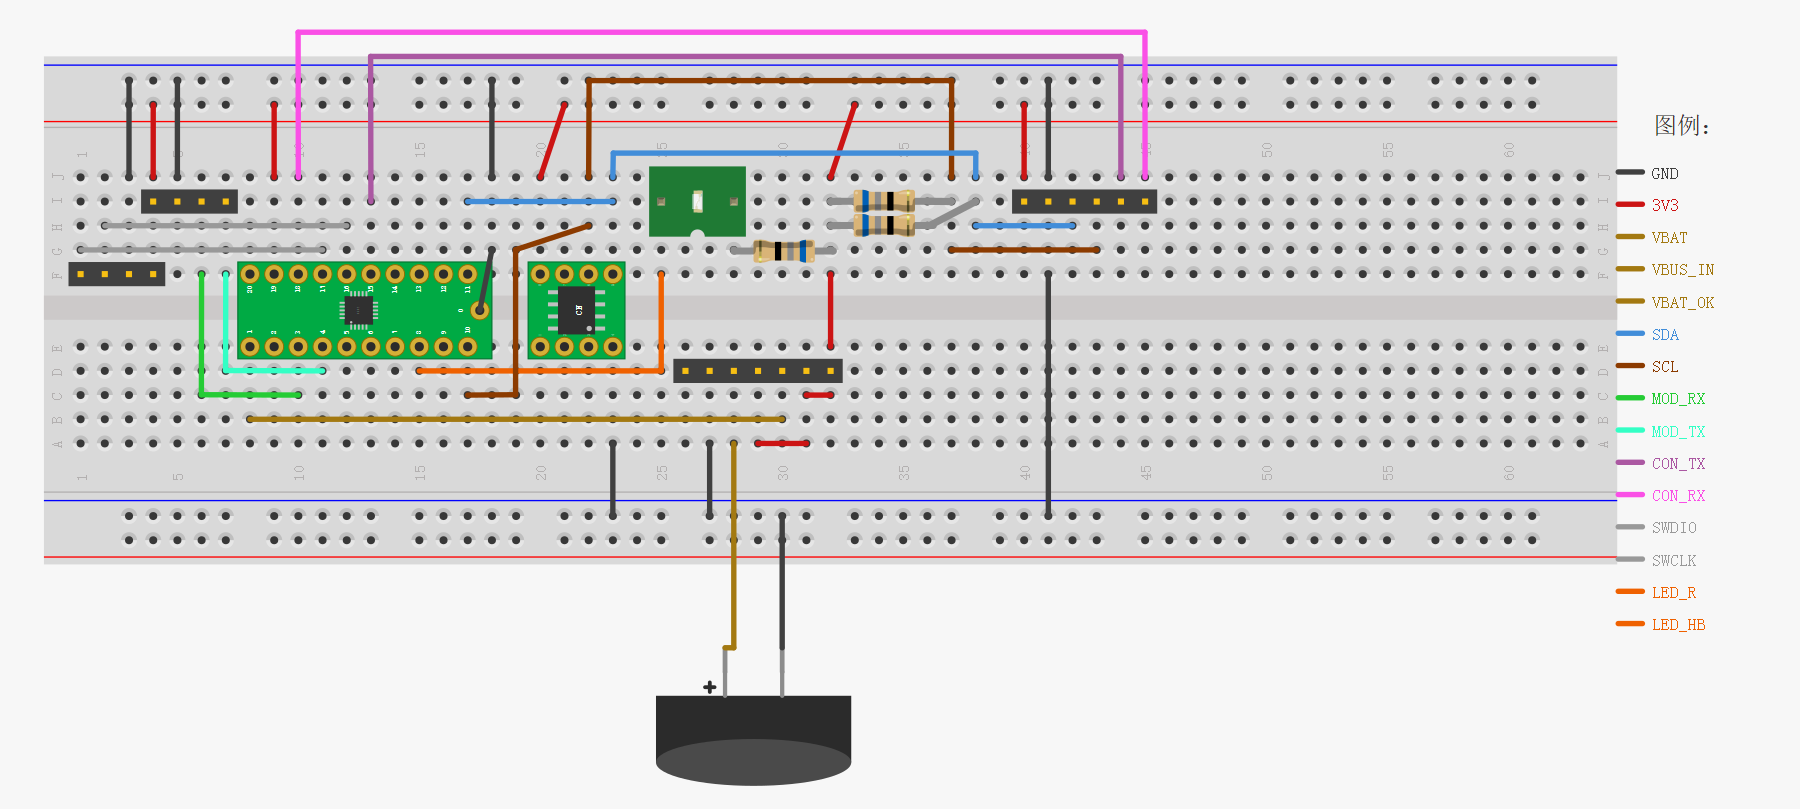
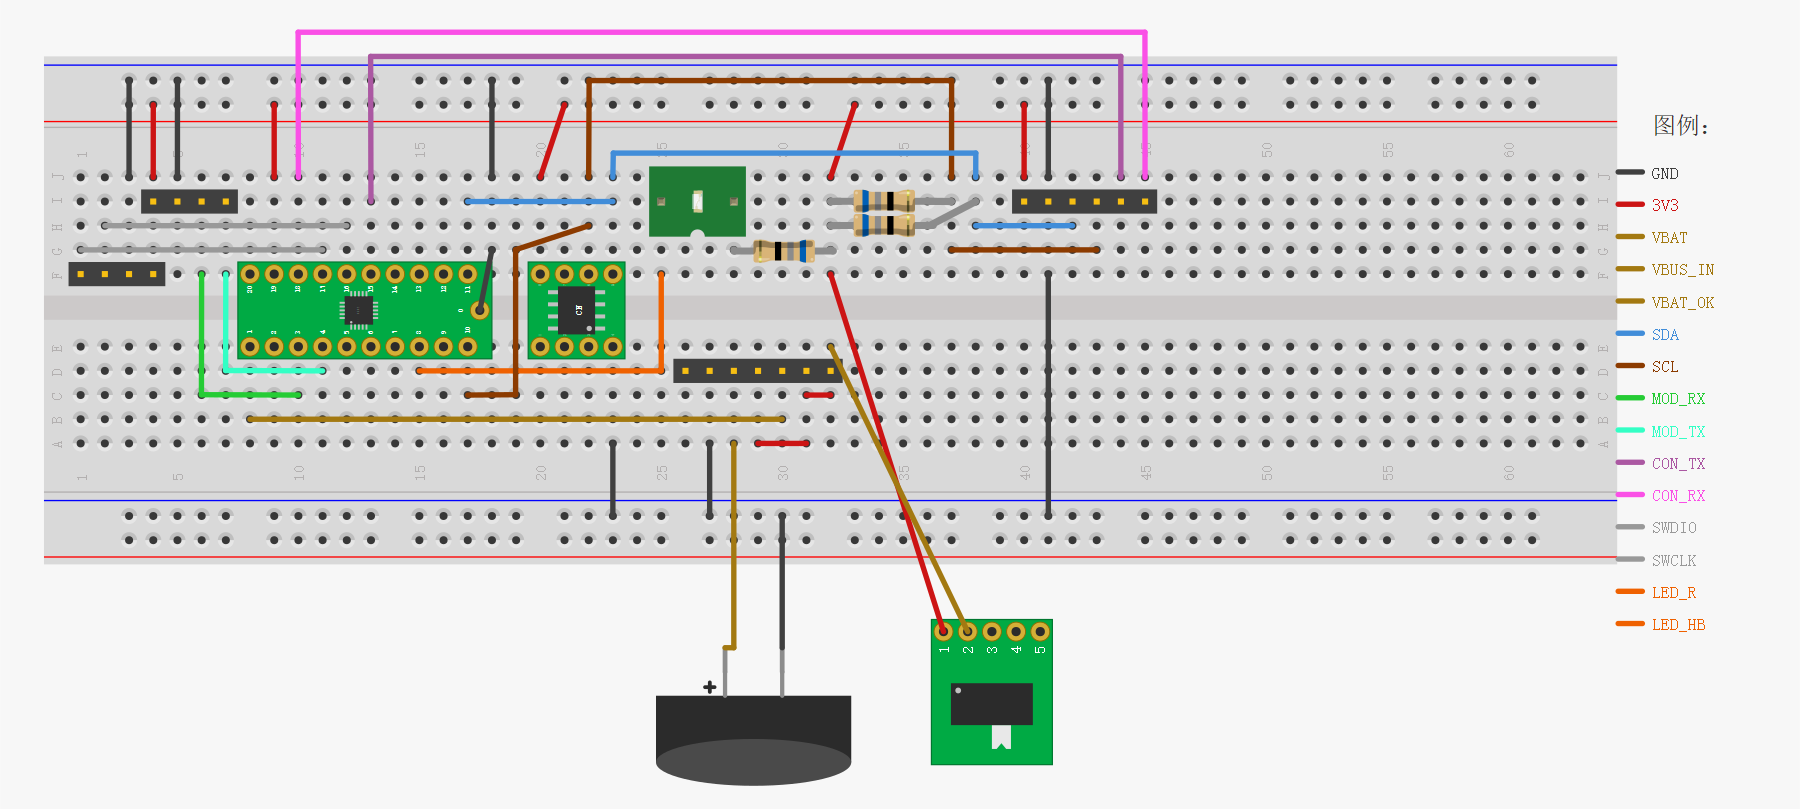
面包板：补上 SW1（SK-12D02VG3），3V3 与 3V3_IN 由此分开
起因：`carrier-breadboard.fzz` 早于电源开关，图里 3V3 与 3V3_IN 被一根桥接线
直接并在一起（`bb_probe` 报「分量里有 3V3 与 3V3_IN 的脚」= 短接），与网表
`carrier_nets.py`（16 张网、SW1 串在中间）不一致。

改动（只碰这一个草图）：
- 删掉桥接线 `Wire90000078`（modelIndex 90000277，pin32F ↔ pin32E）
- 加 `SW1` 实例：与 `BT1` 同样处理成**浮件**（板子下方右侧、不压孔），
  只用 1/2 两脚；3/4/5 是备用极，悬空
- 加两根线：`SW1.1 → pin32F`（3V3 那侧，红 `#cc1414`）、
  `SW1.2 → pin32E`（3V3_IN 那侧，赭 `#a37911`）
- 顺带把板子那两只孔里指向已删桥接线的回指，改指到新的两根线

判据（都不靠眼睛）：
- `bb_probe --nets=carrier_nets.py` ⇒ 15/15 张网连通成一片、EXPECT 量到 48/48、
  **短接 0**、悬空目标 0（改前：短接 1、3V3 8/9、3V3_IN 3/4）
- `file_sanity.py` ⇒ 非标准色 0 根
- `render_bb.py` ⇒ 每个声明了孔的脚 Δ ≤ 0.02 单位（SW1 浮件按"接导线不插孔"处理）
- `tools/run_checks.py` ⇒ 20 道闸门全过

新增 `docs/carrier-breadboard-bringup.md`（图文）：器件表、三处要点（浮件 /
3V3 与 3V3_IN 由 SW1 隔开 / 线色=网）、上电前 7 条万用表判据、5 步分级上电、
载板档烧录与可填的实测记录表；README 的 docs 表加一行。

如实：全部判据都还没在实物上量过（§8 记录表待填）；`bb_precheck.py`
（布线前的摆位闸门）会报 SW1 的 3/4/5 脚"既没插孔也没接线"——设计如此，
本图的网表闸门是 `bb_probe`。

Changed region(s): [[0.4978, 0.618, 0.5911, 0.958], [0.4356, 0.3399, 0.4978, 0.5871], [0.9022, 0.1236, 0.9644, 0.1854]]

diff --git a/docs/carrier-breadboard-bringup.md b/docs/carrier-breadboard-bringup.md
@@ -1,0 +1,170 @@
+# Carrier 面包板验证（bring-up）
+
+按 `hardware/carrier/carrier-breadboard.fzz` 把载板电路**先在面包板上搭出来**跑通，
+再去打板。这是 AGENTS §1 那条**开发次序**里的第 ② 步：
+
+> **网表 → 面包板 → 原理图 → PCB**
+> ① 网表 = `hardware/carrier/carrier_nets.py`（16 张网）
+> **② 面包板 = 本图 ＋ 在实物上跑通（本文）**
+> ③ 原理图 = `carrier-schematic.fzz`（已定稿 ✓）
+> ④ PCB = `carrier-pcb.fzz`（已布线 ✓，等打板）
+
+[![载板面包板接线图](../hardware/carrier/carrier-breadboard.png)](../hardware/carrier/carrier-breadboard.svg)
+
+> 图 = `render_bb.py` 从 `carrier-breadboard.fzz` 直接渲出来的（不是手绘）。右边色条是网名 ↔ 线色；
+> `U1`/`U2` 是绿色转接板，`BT1`/`SW1` 是**浮在板子下方**的两只（见 §3），其余件都插在孔上。
+
+---
+
+## 1. 这张图与网表的关系（可机器核，不靠眼）
+
+| 判据 | 命令 | 现状 |
+|---|---|---|
+| 网上有的脚 ↔ 图上的脚 | `bb_probe.py carrier-breadboard.fzz --nets=carrier_nets.py` | ✓ **15/15 张网连通成一片**、`EXPECT` **量到 48/48 只**、**短接 0** |
+| 导线颜色是否合法 | `file_sanity.py carrier-breadboard.fzz` | ✓ 非标准色 **0** 根 |
+| 脚位是否落在孔上 | `render_bb.py`（渲图时自检） | ✓ 每个声明了孔的脚 Δ ≤ 0.02 单位 |
+
+★ 这三条**都不看"看着像不像"**：`bb_probe` 只认 `<connect>` 与 `<buses>`，`render_bb` 只认几何。
+所以图改了以后**必须重跑**，别凭渲染图下结论。
+
+---
+
+## 2. 器件清单（图上 `ref` ↔ 实物）
+
+| ref | 图上的件 | 实物 / 备注 |
+|---|---|---|
+| `U1` | `CH32V203F8U6`（绿转接板，21 脚） | 20 只脚插孔；**第 21 只 = 裸露焊盘 `VSS`**，靠走线接 GND（见 §7） |
+| `U2` | `ATECC608B`（绿转接板，8 脚） | `SDA`/`SCL`/`VCC`/`GND` ＋ 4×`NC` |
+| `R1`、`R2` | 4.7 kΩ（0603） | **I²C 上拉**（SDA/SCL → 3V3），不能省 |
+| `R3` | 10 kΩ（0603） | 心跳灯限流 |
+| `D1` | LED（0603） | **低电平点亮**（阳极经 `R3` 到 3V3，阴极 → `PB0`） |
+| `BT1` | 5.5 V **1.5 F** 超容 | `+` → `VBAT`、`-` → `GND`（**极性看丝印，别按序号**） |
+| `SW1` | `SK-12D02VG3` 拨动开关 | **只用到 1、2 两脚**：`2` = 公共端（接 `3V3_IN`）、`1` = 拨向板内那侧（接 `3V3`） |
+| `J1` | 1×4 排针（模组口） | 1=`3V3`、2=`GND`、3=`MOD_RX`、4=`MOD_TX` |
+| `J2` | 1×6 排针（台架/产线） | 1=`3V3`、2=`GND`、3=`SDA`、4=`SCL`、5=`CON_TX`、6=`CON_RX` → 接 CH347F/nano 控制台 |
+| `J3` | 1×4 排针（SWD） | 1=`3V3`、2=`GND`、3=`SWDIO`、4=`SWCLK` |
+| `J4` | 1×7 排针（**前端模块插座**） | 1=`INPUT`、2=`GND`、3=`BAT`、4=`OUTPUT`、5=`V_OK`、6=`V_EN`、7=`EN`（插 `CJMCU-2557`） |
+
+---
+
+## 3. 三处**图上要看清楚**的地方
+
+### 3.1 `BT1` 与 `SW1` 是**浮件**（板子下方，两根跳线接进板）
+
+它们的脚距不是 2.54 mm，插不进面包板孔：
+
+- `BT1` 脚距 **6.00 mm**（超容），图上浮在板子下方偏左，两根线分别是 `VBAT`（赭）与 `GND`（黑/灰）。
+- `SW1` 的**面包板视图**虽然是 2.54 mm 间距，但**五只脚在同一排** —— 插进面包板就是**同一块 5 孔铜片**，
+  等于把 1…5 全短在一起。所以图上按 `BT1` 的做法处理：**浮在板子下方偏右，只用两根跳线接 1、2 两脚**。
+  其余三只（3/4/5）是**备用极**，悬空不用。
+
+⇒ 搭的时候：把开关摆到板子旁边，用两根杜邦线接到对应孔即可；
+**要临时替代开关**就用一根跳线短接 `3V3_IN` 与 `3V3` 那两颗孔（= 开关合上）。
+
+### 3.2 `3V3_IN` 与 `3V3` 在图上**是两张网**（中间就是 `SW1`）
+
+旧版图里有一根桥接线直接把这两张网并在一起（`bb_probe` 报「分量里有 `3V3` 与 `3V3_IN` 的脚 = 短接」）。
+现在那根线已删，改成 `SW1`：
+
+```
+J4.4 OUTPUT ─┬─ J4.6 V_EN ─┬─ SW1.2 (COM)
+J4.7 EN    ─┘              │
+                            └─ SW1.1 → 板内 3V3（U1 VDD / U2 VCC / R1..R3 / J1..J3）
+```
+
+★ 注意 `V_EN`/`EN` 接在**开关前**（`3V3_IN` 侧）：开关断开时取能模块仍在工作，合上就上电。
+
+### 3.3 导线颜色 = 网（图右侧的色条就是图例）
+
+`GND` 黑 `#404040`、`3V3` 红 `#cc1414`、`3V3_IN` 赭 `#a37911`、`VBAT` 赭 `#a37911`、
+`SDA` 蓝 `#418dd9`、`SCL` 棕 `#8c3b00`…… 全部取自 Fritzing 官方配色表的**面包板**那一节
+（表在 `carrier_nets.py` 的 `COLOR`）。颜色**不是随便挑的**：表外的 hex 画出来对、但 Fritzing
+指示栏认不出（会回落成"蓝"）。
+
+---
+
+## 4. 上电前：万用表逐条量（**先量后通电**）
+
+断电、SW1 断开（或跳线未插）状态下，用万用表电阻/二极管档逐条量。**任一条不对就别上电。**
+
+| # | 量哪里 | 应该是 | 不对说明什么 |
+|---|---|---|---|
+| 1 | `3V3` ↔ `GND` | **> 1 kΩ**（多数情况读数会随电容充电爬升） | < 100 Ω ⇒ 3V3 对地短路，先查有没有插错孔/引脚搭锡 |
+| 2 | `VBAT` ↔ `GND` | 读数**从低往上爬**（超容在充电） | 一直是 0 Ω ⇒ `BT1` 短路或极性接反 |
+| 3 | `BT1` 的 `+` ↔ `VBAT`、`-` ↔ `GND` | 各 **< 1 Ω** | 反了 ⇒ 超容反接（2026-10-17 原理图上出过这个错） |
+| 4 | `SDA` ↔ `3V3`、`SCL` ↔ `3V3` | 各 ≈ **4.7 kΩ** | 无穷大 ⇒ 上拉没插；≈0 ⇒ 接错 |
+| 5 | `U2` 的 `GND` ↔ `U1` 的 `VSS` | **< 1 Ω**（共地） | 不通 ⇒ SE 不会应答（现象是全部 NACK） |
+| 6 | `J3.3` ↔ `U1` `PA13`、`J3.4` ↔ `U1` `PA14` | 各 **< 1 Ω** | 不通 ⇒ 烧不进去 |
+| 7 | `3V3_IN` ↔ `3V3` | **断开**（开关 OFF / 没插跳线） | 通 ⇒ 开关焊/插错，或还留着旧的桥接线 |
+
+---
+
+## 5. 分级上电（每步都有判据，不对就停在那一层）
+
+> 上电顺序刻意做成"一次只多接一样"，出错时能一眼看出问题在哪一层。
+
+| 步 | 做什么 | 判据（**看到这个才算过**） |
+|---|---|---|
+| ① | 只给板子供电（`SW1` 合上 / 插跳线），**不插模组、不接前端** | 板载心跳灯 **`PB0`**：上电先闪 3 下，然后 **1 Hz** 持续闪；`3V3` 实测 **3.3 V ± 5 %** |
+| ② | `J2.5`/`J2.6`（`CON_TX`/`CON_RX`）+ `J2.2`（`GND`）接 USB-UART，**115200 8N1** | 控制台出**启动横幅**：能读到 `se_hw` / `se_ok` / `nonce_src` 那几个字段 |
+| ③ | 控制台敲 `se` | ATECC608B 应答：`Random` 回 32 字节、`Sign(slot 0)` ok（**全 NACK 就回 §4 第 5 条**） |
+| ④ | 插模组到 `J1`（`3V3`/`GND`/`MOD_RX`/`MOD_TX`），敲 `idlevel l0` 再 `idsend` | 模组口出 `[mbus rx] … byte(s)`；本板 SE 签名 ⇒ 报文字段 `nonce_src=se sign_src=se` |
+| ⑤ | 接前端（`J4` 插 `CJMCU-2557`），`SW1` 保持断开先量 | `3V3_IN` ≈ **3.3 V**（模块已工作）、`VBAT` 电压**随时间上升**（超容在充）；合上 `SW1` ⇒ `3V3` 起来、心跳灯亮 |
+
+★ 第 ①/② 步就不过（灯不闪、串口全静默），**先怀疑烧录/时钟/启动**，不要急着查电路：
+烧完**不会自动运行**，必须**断电再上电**或按一次 `RST`。
+
+---
+
+## 6. 烧录（载板档）
+
+```bash
+cd firmware
+make rebuild BOARD=carrier      # 心跳灯 PB0、SE 走 I2C2（PB10/PB11）
+```
+
+- `BOARD=carrier` 与台架档（`BOARD=bench`，默认）**只差两处**：心跳灯 `PA15`→`PB0`、SE 的 I2C1→I2C2
+  （`CH32V203F8U6` 封装上 `I2C1` 没引出 ⇒ 载板只能用 `I2C2`）。
+- WCH-LinkE **只接三根**：`CLK → J3.4`（`SWCLK`）、`DIO → J3.3`（`SWDIO`）、`GND → J3.2`。
+  **`3V3` 不要接**（板子自己供电；两边同时供电容易顶）。
+- 烧完按一次 `RST` 或断电重上电。
+
+---
+
+## 7. 图上"看得见但要想一下"的两处
+
+1. **`U1` 的裸露焊盘 `VSS`** 在图上是一只**接线的脚**（不是插孔）—— 实物要么靠转接板把它引出来，
+   要么在 GND 轨上用一根线接到它（PCB 上它是 EPAD → 散热过孔 → 背面地铜）。
+2. **`SW1` 的备用极（3/4/5）既没插孔也没接线**，所以 `bb_precheck.py`（**布线前**的摆位闸门）
+   会报「`SW1.connector2/3/4` 没落到孔上」。这是**设计如此**，不是图错了 ——
+   本图的判据是 `bb_probe.py`（网表闸门）✓ 全过。
+
+---
+
+## 8. 实测记录（边搭边填）
+
+| 步 | 判据 | 实测 | 结论 |
+|---|---|---|---|
+| §4-1 | `3V3`↔`GND` > 1 kΩ | | |
+| §4-2 | `VBAT`↔`GND` 爬升 | | |
+| §4-3 | `BT1` 极性 | | |
+| §4-4 | `SDA`/`SCL` ≈ 4.7 kΩ | | |
+| §4-5 | `U2.GND` ↔ `U1.VSS` | | |
+| §4-6 | `J3.3/J3.4` ↔ `PA13/PA14` | | |
+| §4-7 | `3V3_IN` ↔ `3V3` 断开 | | |
+| §5-① | 心跳灯 3 下 → 1 Hz | | |
+| §5-② | 控制台横幅 | | |
+| §5-③ | `se` 应答 | | |
+| §5-④ | 模组 `[mbus rx]` | | |
+| §5-⑤ | 前端取能 / 储能上升 | | |
+
+---
+
+## 9. 边界（如实）
+
+- **本文所有判据都还没在实物上量过** —— 图与网表是机器核过 ✓（§1），电路是否真的按预期工作
+  要按 §4/§5 一条条搭起来才知道。
+- 图上 `BT1` / `SW1` 是**浮件**（§3.1），所以"图上连线"与"手上两根杜邦线"必须一一对上：
+  **接错一根 = 极性反 / 开关不串在中间**，量 §4-2 / §4-7 就能发现。
+- `bb_probe` 只看 `<connect>` 与 `<buses>`，**不看几何**：它证明"该连的连了、没短接"，
+  **不证明**"线没有压在别的孔上"。线压在孔上属物理插拔问题，只能靠人看着搭。

diff --git a/README.md b/README.md
@@ -160,6 +160,7 @@ orpah-client-demo/
 | `docs/nano-ch32v203-uart-bridge.md` | nanoCH32V203 刷 `SimulateCDC` 当 USB-UART 桥（COM32）、AT 验证；含 `AT+TXDATA` 在真模组上不成立的结论 |
 | `docs/ch347f-txah-spi-probe.md` | SPI/电气探测（判据 = SD-SPI 的 CMD0/CMD5 有没有合法 R1） |
 | `docs/carrier-board-spec.md` | **d 步载板规格（草稿，未上机 ✗）**：器件表 / 引脚分配（**逐条标出处**）/ 电源树（电池 + 预留取能）/ 测试点与产线夹具接口 / **验收判据**（台架上验过的每一条都要在载板上再验一遍）/ 待定清单 |
+| `docs/carrier-breadboard-bringup.md` | **面包板验证（AGENTS §1 开发次序的第 ②步）**：`carrier-breadboard.fzz` 的器件表与三处要点（`BT1`/`SW1` 浮件、`3V3` 与 `3V3_IN` 由 `SW1` 隔开、线色=网）、**上电前 7 条万用表判据**、**5 步分级上电**、载板档烧录、可填的实测记录表、如实边界（✗ 未上机） |
 
 ## 构建与烧录（2026-09-21 实测；2026-10-12 补 Python 依赖）
 

diff --git a/checks_report.md b/checks_report.md
@@ -1,6 +1,6 @@
 # checks_report.md —— `tools/run_checks.py` 的输出（**入库**，同隔壁仓惯例）
 
-跑的时间：2026-10-18 14:03:52
+跑的时间：2026-10-18 14:44:57
 
 判定口径：**退出码 0 且输出里没有 `FAIL` / `Traceback`**（只看退出码会漏 —— 有些脚本自己吞异常）。
 
